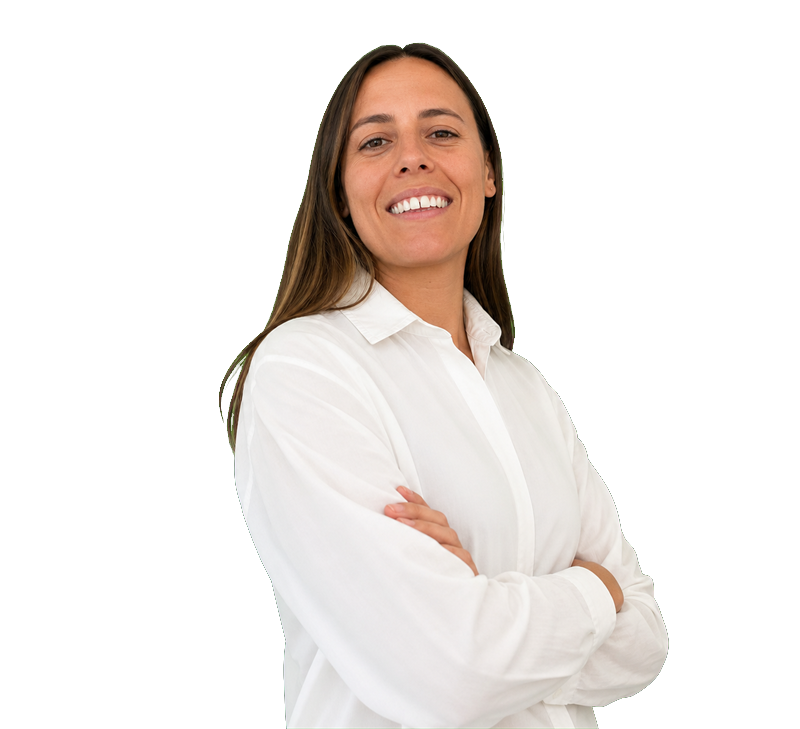
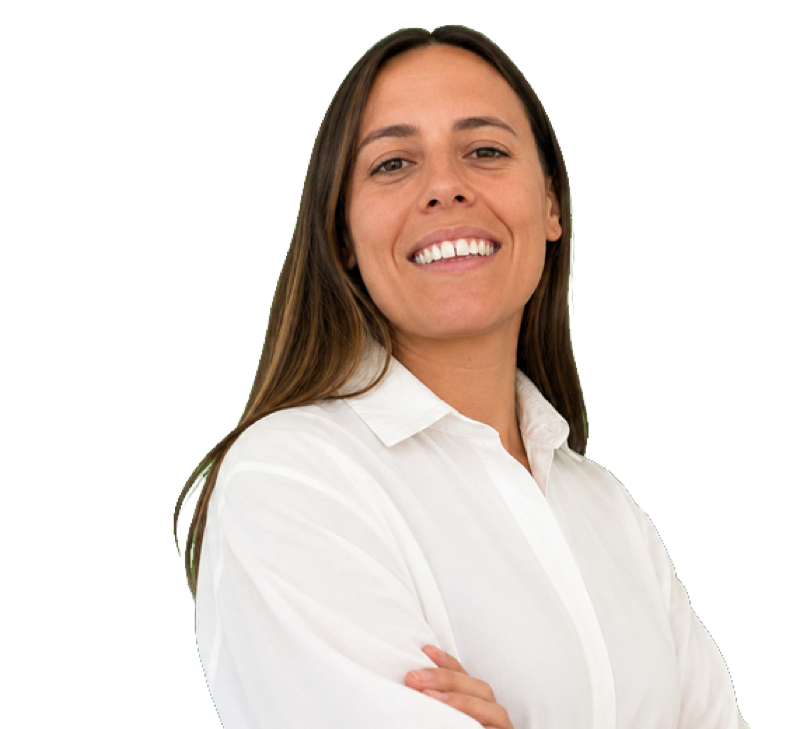
Experts: agenda RDV button (expert pages), redesign annonce expert box, recrop Candice
- Add 'agenda' field (Google Calendar appointment URL) to expert schema +
  6 commercials (Caroline 11/06). 'Réserver un rendez-vous' button on the
  expert pages only for now; sale-listing placement TBD with the agents.
- Redesign ExpertCard (annonce box): bigger photo, name/role aligned beside
  it, email + call as button CTAs (no agenda). Show phone on closed ventes.
- Remove the 'Être prévenu par email' button from the closed annonce block.
- Recrop Candice's photo tighter (head/shoulders) to match the other experts'
  framing — was showing too much torso.

Changed region(s): [[0.2188, 0.0302, 0.9375, 1.0], [0.4688, 0.6639, 0.625, 0.7846], [0.25, 0.8752, 0.3438, 1.0]]

diff --git a/src/content.config.ts b/src/content.config.ts
@@ -81,6 +81,9 @@ const experts = defineCollection({
     // Section the expert appears under on the /experts/ index. One of:
     // "Direction" | "Vente" | "Gestion locative" | "Syndic" | "Contentieux".
     department: z.string().optional(),
+    // Google Calendar appointment-schedule URL — powers the "Réserver un
+    // rendez-vous" button on the expert page (Caroline, 11/06).
+    agenda: z.string().url().optional(),
   }),
 });
 
